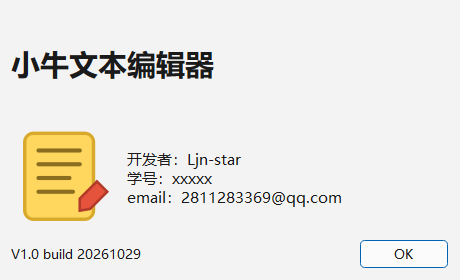
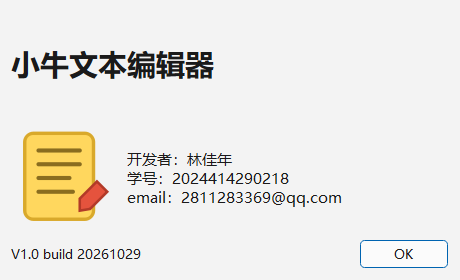
feat(ui): 填写关于对话框与状态栏的作者信息
- 关于对话框：开发者 林佳年、学号 2024414290218、邮箱 2811283369@qq.com
- 状态栏右下角显示姓名 林佳年
- 同步重新生成运行截图

Changed region(s): [[0.3652, 0.5429, 0.6391, 0.6571]]

diff --git a/mainwindow.cpp b/mainwindow.cpp
@@ -103,7 +103,7 @@ void MainWindow::createStatusBarWidgets()
 {
     m_statusLabel = new QLabel(this);
     m_cursorLabel = new QLabel(this);
-    m_authorLabel = new QLabel(QStringLiteral("Ljn-star"), this);
+    m_authorLabel = new QLabel(QStringLiteral("林佳年"), this);
 
     ui->statusBar->addPermanentWidget(m_statusLabel);
     ui->statusBar->addPermanentWidget(m_cursorLabel);

diff --git a/README.md b/README.md
@@ -97,6 +97,6 @@ mingw32-make -j4
 
 ## 七、说明
 
-关于对话框与状态栏中的作者信息是占位内容，可在
-`aboutdialog.ui` 与 `mainwindow.cpp` 的 `createStatusBarWidgets()` 中改成自己的
-姓名、学号和邮箱。
+关于对话框与状态栏中的作者信息为：林佳年 / 2024414290218 / 2811283369@qq.com，
+如需修改可在 `aboutdialog.ui` 的 `labelInfo` 与 `mainwindow.cpp` 的
+`createStatusBarWidgets()` 中调整。
